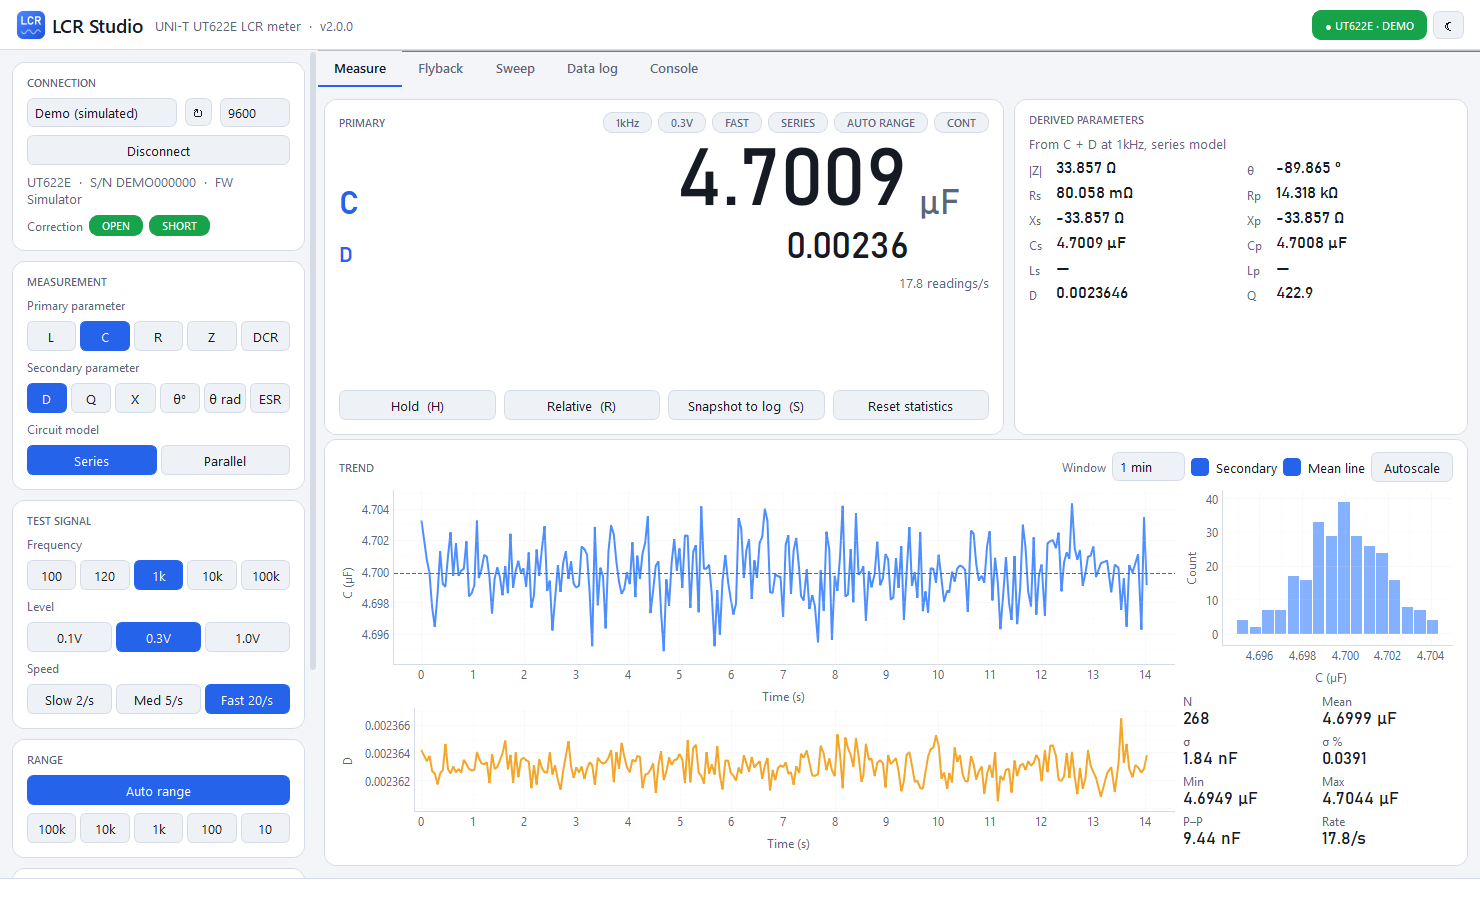
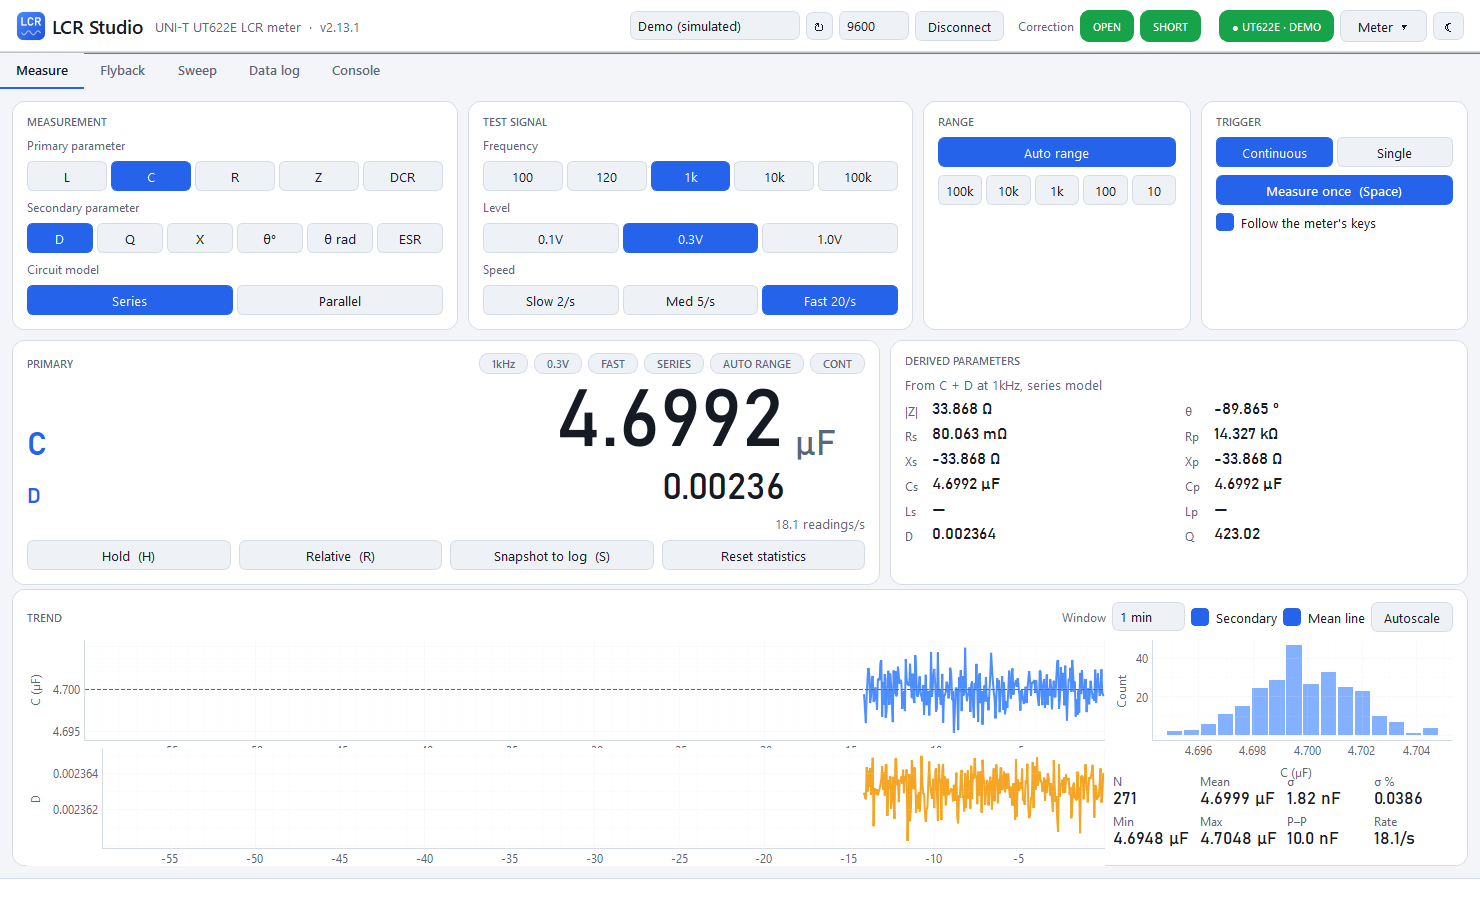
README and screenshots for the flyback revamp, report columns fit their text; 2.13.1
The README now describes the connection bar in the top bar, the meter
settings strip on the Measure tab, ticked flyback steps with the rewire
prompt, per-step test conditions and limits, log-axis charts with the
cross-hair, and the point tables on the report. Every screenshot is
regenerated for this UI.

Report: the point-table columns are sized from the header and cell text
with the page's own font metrics (the header steps down a size if the
full names would not fit), so "Dissipation" and "Quality factor" are no
longer clipped, whatever font the platform provides.

diff --git a/lcr_studio/report.py b/lcr_studio/report.py
@@ -185,27 +185,40 @@ def points_table(cv, x, y, w, title, result, equ, target=None):
     if not result or not result["rows"]:
         cv.text(x, y, w, 12, "not measured", 7, color=FAINT)
         return y + 12
-    cols = [("Level", 0.09, Qt.AlignLeft), ("Frequency", 0.14, Qt.AlignRight), ("Inductance", 0.18, Qt.AlignRight),
-            ("Dissipation", 0.14, Qt.AlignRight), ("Quality factor", 0.15, Qt.AlignRight), ("Phase", 0.10, Qt.AlignRight),
-            ("Series resistance" if equ == "SER" else "Parallel resistance", 0.20, Qt.AlignRight)]
+    names = ["Level", "Frequency", "Inductance", "Dissipation", "Quality factor", "Phase",
+             "Series resistance" if equ == "SER" else "Parallel resistance"]
+    aligns = [Qt.AlignLeft] + [Qt.AlignRight] * 6
+    rows = sorted(result["rows"], key=lambda r: (LEVELS.index(r["level"]), r["hz"]))
+    table = []
+    for row in rows:
+        d, theta, res = loss_figures(row, equ)
+        table.append([v_label(row["level"]), hz_label(row["freq"]), fmt(row["L"], "H"),
+                      f"{d:.4f}" if d is not None else "—", f"{row['Q']:.4g}" if row.get("Q") is not None else "—",
+                      f"{theta:.2f}°" if theta is not None else "—", fmt(res, "Ω") if res is not None else "—"])
+    # Column widths come from the text itself, so no header or value is clipped whatever font is installed;
+    # the header shrinks a step if the full names would not fit the table width.
+    cm = QFontMetricsF(cv.font(6.4, True), cv.p.device())
+    for hs in (5.8, 5.4, 5.0):
+        hm = QFontMetricsF(cv.font(hs, True), cv.p.device())
+        need = [max([hm.horizontalAdvance(n)] + [cm.horizontalAdvance(r[i]) for r in table]) / cv.s + 7
+                for i, n in enumerate(names)]
+        if sum(need) <= w:
+            break
+    widths = [n * w / sum(need) for n in need]
     cv.box(x, y, w, 11, fill="#eef2f8")
     cx = x
-    for name, frac, align in cols:
-        cv.text(cx + 3, y, w * frac - 6, 11, name, 5.8, True, MUTED, align | Qt.AlignVCenter)
-        cx += w * frac
+    for name, cw, align in zip(names, widths, aligns):
+        cv.text(cx + 3, y, cw - 6, 11, name, hs, True, MUTED, align | Qt.AlignVCenter)
+        cx += cw
     y += 11
-    for row in sorted(result["rows"], key=lambda r: (LEVELS.index(r["level"]), r["hz"])):
+    for row, cells in zip(rows, table):
         hit = target is not None and (row["freq"], row["level"]) == tuple(target)
         if hit:                                      # the point the limit is checked at
             cv.box(x, y, w, 10.5, fill="#dbe7ff")
-        d, theta, res = loss_figures(row, equ)
-        cells = [v_label(row["level"]), hz_label(row["freq"]), fmt(row["L"], "H"),
-                 f"{d:.4f}" if d is not None else "—", f"{row['Q']:.4g}" if row.get("Q") is not None else "—",
-                 f"{theta:.2f}°" if theta is not None else "—", fmt(res, "Ω") if res is not None else "—"]
         cx = x
-        for (_, frac, align), text in zip(cols, cells):
-            cv.text(cx + 3, y, w * frac - 6, 10.5, text, 6.4, hit, INK, align | Qt.AlignVCenter)
-            cx += w * frac
+        for text, cw, align in zip(cells, widths, aligns):
+            cv.text(cx + 3, y, cw - 6, 10.5, text, 6.4, hit, INK, align | Qt.AlignVCenter)
+            cx += cw
         cv.line(x, y + 10.5, x + w, y + 10.5, GRID, 0.4)
         y += 10.5
     return y

diff --git a/lcr_studio/__init__.py b/lcr_studio/__init__.py
@@ -1,3 +1,3 @@
 """LCR Studio - desktop application for the UNI-T UT622E LCR meter."""
 
-__version__ = "2.13.0"
+__version__ = "2.13.1"

diff --git a/README.md b/README.md
@@ -53,10 +53,13 @@ serial port), start LCR Studio, and it connects automatically.
 - Large readout with SI prefixes, overload (`OL`) detection and PASS/FAIL from the meter's comparator.
 - **Hold** and **Relative** (Δ and Δ% against a captured reference).
 - **Derived parameters**, calculated from every reading: |Z|, θ, Rs (ESR), Rp, Xs, Xp, Cs, Cp, Ls, Lp, D, Q.
-- Trend charts for primary and secondary values, a live histogram and statistics (mean, σ, σ %, min, max, p-p, rate).
-- Every meter setting in the sidebar: L / C / R / Z / DCR, D / Q / X / θ° / θ rad / ESR, series / parallel,
-  100 Hz – 100 kHz, 0.1 / 0.3 / 1.0 V, slow / medium / fast, auto or held range, continuous or single
-  trigger, keypad lock, reset. Changes made on the meter's own keys show up in the app within seconds.
+- A rolling trend chart for the primary and secondary values (the meter's tolerance window is shaded while
+  tolerance mode is on), a live histogram and statistics (mean, σ, σ %, min, max, p-p, rate).
+- Every meter setting in a strip above the readout: L / C / R / Z / DCR, D / Q / X / θ° / θ rad / ESR,
+  series / parallel model, 100 Hz – 100 kHz, 0.1 / 0.3 / 1.0 V, slow / medium / fast, auto or held range,
+  continuous or single trigger. Changes made on the meter's own keys show up in the app within seconds.
+- Port, baud rate, Connect and the open/short correction badges sit in the top bar, next to a **Meter** menu
+  for the keypad lock and settings reset.
 
 <table>
 <tr>
@@ -65,26 +68,29 @@ serial port), start LCR Studio, and it connects automatically.
 </tr>
 <tr>
 <td align="center"><sub>Dark theme</sub></td>
-<td align="center"><sub>Light theme, one click in the title bar</sub></td>
+<td align="center"><sub>Light theme, one click in the top bar</sub></td>
 </tr>
 </table>
 
 ### Flyback transformer test
 
 An inductance test for flyback (and other multi-winding) transformers, producing a **one-page US Letter PDF
-report** per unit. Pick the step from the drop-down, wire the part as the instruction says and press Run:
+report** per unit. Tick the steps to run and press **Run ticked steps**. A pop-up shows the progress of each
+step and, between steps, tells you how to rewire the part before continuing:
 
-1. **Primary inductance Lp:** primary connected, all other windings open. Measured over every selected
-   frequency × test level, plus the primary DC resistance.
-2. **Leakage inductance Llk:** primary connected, every other winding shorted.
+1. **Primary inductance:** meter on the primary, every other winding open.
+2. **Leakage inductance:** meter on the primary, every other winding shorted.
 
-From the measurements it derives the **leakage ratio, coupling coefficient k = √(1 − Llk/Lp), Q, ESR and Lp
-level dependence**. Lp nominal ± tolerance, Llk max, Llk/Lp max and primary DCR max are checked at the
-specification frequency and level. Profiles save as JSON so a production line can load a part in one click.
-Raw data exports to Excel. The report is identified by part number, test station (this computer's name)
-and date.
+Each step measures inductance and Q over every selected frequency × test level with its own circuit model,
+and each limit is checked at its own test frequency and level: **primary nominal ± tolerance**, **leakage
+maximum** and **leakage / primary maximum**. The results table adds the **coupling coefficient
+k = √(1 − Llk/Lp)**, the primary Q and its series (or parallel) resistance. The charts draw one curve per
+test level with the limits shown as a band and a line, switch to a log axis when a sweep spans more than a
+decade, and mark the test point with a labelled cross-hair. Profiles save as JSON so a production line can
+load a part in one click. Raw data exports to Excel with D, Q, phase and resistance for every point. The
+report is identified by part number, test station (this computer's name) and date.
 
-<img src="docs/images/flyback.png" alt="Flyback tab: step selector, live charts and pass/fail summary" width="100%">
+<img src="docs/images/flyback.png" alt="Flyback tab: specification, steps to run, live charts and pass/fail summary" width="100%">
 
 <table>
 <tr>
@@ -94,12 +100,12 @@ and date.
 **The report** (vector PDF, US Letter) contains:
 
 - a PASS / FAIL / INCOMPLETE verdict
-- part number, test station, date, instrument identity and open/short correction status
+- part number, test station, date, instrument identity and the test condition of each step
 - a results table with conditions, limits and per-parameter results
-- **Lp vs frequency** and **Llk vs frequency**, one curve per test level
-- **Level dependence** of Lp and Llk at the spec frequency
-- **Primary Q vs frequency**
-- the full Lp and Llk matrices (level × frequency)
+- **primary inductance** and **leakage inductance vs frequency**, one curve per test level, with the
+  test point marked
+- every measured point of each step: inductance, dissipation, quality factor, phase and
+  series resistance, with the test-condition row highlighted
 - signature lines for tester and reviewer
 
 </td>
@@ -208,9 +214,11 @@ lcr_studio/
   worker.py        background thread that owns the serial port
   engmath.py       SI formatting, impedance math
   theme.py         dark / light themes
-  flyback.py       flyback test: profile, Lp / Llk steps, measurement job, pass/fail evaluation
+  widgets.py       cards, badges, segmented buttons, unit fields, busy pop-up, chart helpers
+  flyback.py       flyback test: profile, primary / leakage steps, measurement job, pass/fail evaluation
   report.py        one-page US Letter PDF report renderer
-  panels/          one module per tab (measure, flyback, sweep, logger, console, controls)
+  panels/          one module per tab (measure, flyback, sweep, logger, console)
+                   and controls (connection bar, settings strip, Meter menu)
   assets/          icon and bundled Barlow font
 packaging/         PyInstaller build script, .desktop file, udev rule, icon
 scripts/           screenshot generator
